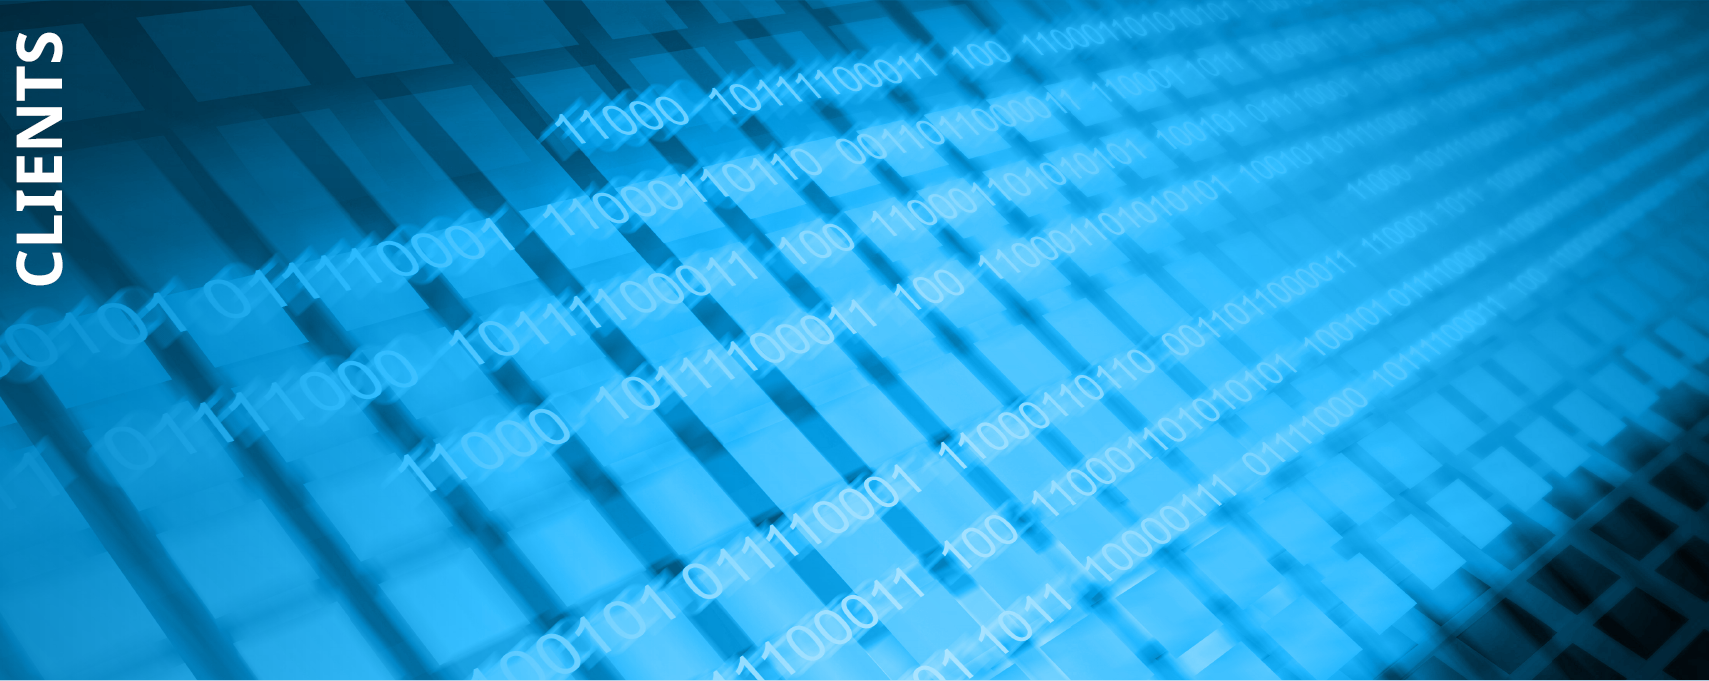
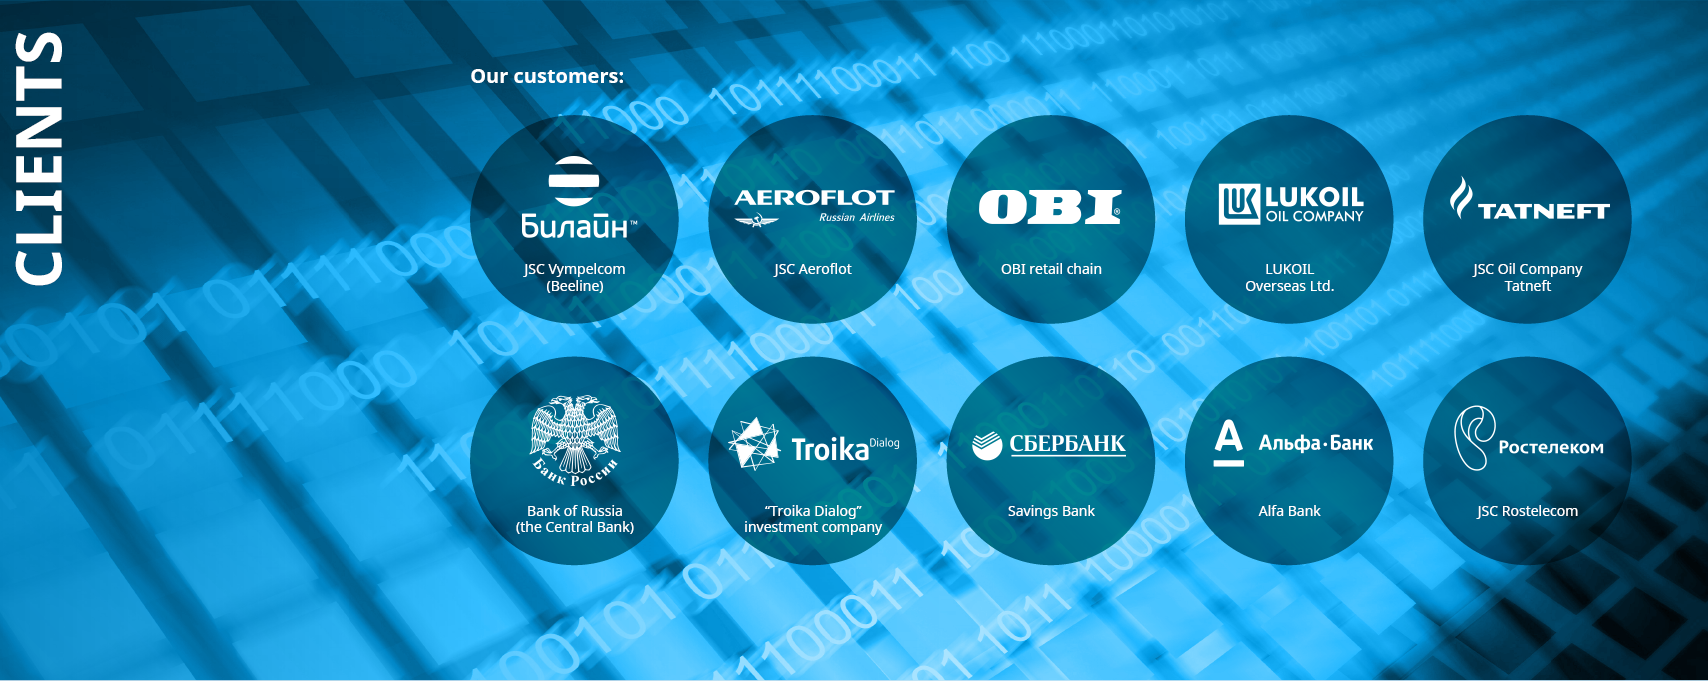
fghjk

Changed region(s): [[0.2482, 0.1542, 0.9619, 0.4934], [0.2482, 0.5242, 0.9619, 0.8326], [0.2793, 0.0925, 0.3724, 0.1233]]

diff --git a/intec/css/main.css b/intec/css/main.css
@@ -1,1 +1,1 @@
-@import "reset.css";body{position:relative;width:100%;height:100%}body header{height:150px;background:#fff;width:100%;top:0;z-index:2;overflow:hidden}body header img{display:inline-block;margin:30px;width:170px;height:70px;vertical-align:top;float:left}body header h1{width:450px;display:inline-block;vertical-align:top;margin:30px 0 0 20px;font-size:16px;font-family:'noto_sans';line-height:18px;float:left}body header section{float:right;display:inline-block;position:absolute;top:20px;right:30px}body header section div{text-align:right;margin-right:5px}body header section div a{display:inline-block;vertical-align:middle;width:25px;height:25px;background:url("../images/sex.png") -50px 0 no-repeat;background-size:77px 25px}body header section div a.fb{background:url("../images/sex.png") 0 0 no-repeat;background-size:77px 25px;margin-left:10px}body header section div a.tw{background:url("../images/sex.png") -25px 0 no-repeat;background-size:77px 25px}body header section div a.link{display:inline-block;color:#8c8c8c;font-size:12px;cursor:pointer;vertical-align:middle;margin-top:2px;text-decoration:underline;font-family:'noto_sans';background:none;height:auto;width:auto}body header section div a.link.current{text-decoration:none}body header section nav{text-align:right;margin-top:10px}body header section nav a{display:inline-block;color:#0075bf;font-size:14px;text-decoration:none;border-bottom:1px dashed #0075bf;margin:0 5px;font-family:'noto_sans';cursor:pointer}body header section nav a.current{border:none;font-weight:bold;cursor:default}body footer{height:50px;background:#383838;width:100%;margin-top:-50px;position:relative;overflow:hidden}body footer img{display:inline-block;float:left;margin:10px 0 0 30px;vertical-align:middle}body footer i{display:inline-block;float:right;color:#fff;margin:20px 40px 0 0;vertical-align:middle;font-family:'noto_sans';font-size:12px}body #content{margin-left:30px;padding-bottom:30px;overflow:hidden;position:relative;z-index:1}body #content ul#mainul{width:100%;position:relative;bottom:0;padding-bottom:50px;min-height:500px}body #content ul#mainul>li{width:5%;float:left;background-size:cover;position:relative;cursor:pointer;-webkit-transition:all 1s ease-in-out;-moz-transition:all 1s ease-in-out;-ms-transition:all 1s ease-in-out;transition:all 1s ease-in-out;overflow:hidden;min-height:500px}body #content ul#mainul>li *{opacity:0;-webkit-transition:all 1s ease-in-out;-moz-transition:all 1s ease-in-out;-ms-transition:all 1s ease-in-out;transition:all 1s ease-in-out}body #content ul#mainul>li a{display:none}body #content ul#mainul>li#project{background:url("../images/1-rus.png") left top no-repeat;background-size:cover}body #content ul#mainul>li#client{background:url("../images/2-rus.png") left top no-repeat;background-size:cover}body #content ul#mainul>li#contact{background:url("../images/3.png") left top no-repeat;background-size:cover}body #content ul#mainul>li.current{width:90%;max-width:100%;background-size:cover !important;cursor:default}body #content ul#mainul>li.current *{opacity:1}body #content ul#mainul>li.current a{display:block}body #content ul#mainul>li .whitenote{width:20%;background:rgba(255,255,255,0.8);font-family:'noto_sans';position:absolute;top:30px;left:10%;padding:5px 10px 10px 10px}body #content ul#mainul>li .whitenote strong{font-size:1.2vw;font-weight:bold;line-height:1.3vw;margin-top:5px;display:block}body #content ul#mainul>li .whitenote p{font-size:1.2vw;line-height:1.3vw}body #content ul#mainul>li .whitenote ul.contul li{font-size:1.2vw;line-height:1.3vw;list-style-type:circle;width:90%;float:none;max-width:90%;cursor:default;margin-left:20px;overflow:visible}body #content ul#mainul>li .whitenote ul.contul.olul li{margin:10px 20px;text-transform:uppercase}body #content ul#mainul>li .whitenote.notecon{top:20px;left:auto;right:5%}body #content ul#mainul>li .whitenote.notecon b,body #content ul#mainul>li .whitenote.notecon strong{margin:10px 0 5px 0;font-size:1.3vw}body #content ul#mainul>li .whitenote.notecon b{color:#017e85;font-size:1.3vw;display:block}body #content ul#mainul>li .whitenote.notecon a{color:#000;display:block;font-size:1.3vw}body #content ul#mainul>li .discs{position:absolute;top:50%;margin:-10% 0 0 40%}body #content ul#mainul>li .discs .disc{display:inline-block;width:28%;max-width:250px;margin:0 2%;opacity:.7}body #content ul#mainul>li .dicks{position:absolute;top:50%;margin:-20% 0 0 40%}body #content ul#mainul>li .dicks .dick{display:block;width:90%;opacity:.7}body #content ul#mainul>li .dicks p{color:#fff;font-family:'noto_sans';font-size:2vh;font-weight:bold;margin:30px 0}body #wrap{position:relative;min-height:100%}body.eng #project{background:url("../images/1.png") left top no-repeat !important;background-size:cover !important}body.eng #client{background:url("../images/2.png") left top no-repeat !important;background-size:cover !important}body.eng #contact{background:url("../images/3-eng.png") left top no-repeat !important;background-size:cover !important}@media screen and (orientation:portrait){header{height:300px !important}header h1{width:600px !important;margin:150px 0 0 -200px !important}#content{top:300px !important}#content p,#content a,#content strong,#content b,#content li{font-size:1.3vw !important;line-height:1.4vw !important}}
+@import "reset.css";body{position:relative;width:100%;height:100%}body header{height:150px;background:#fff;width:100%;top:0;z-index:2;overflow:hidden}body header img{display:inline-block;margin:30px;width:170px;height:70px;vertical-align:top;float:left}body header h1{width:450px;display:inline-block;vertical-align:top;margin:30px 0 0 20px;font-size:16px;font-family:'noto_sans';line-height:18px;float:left}body header section{float:right;display:inline-block;position:absolute;top:20px;right:30px}body header section div{text-align:right;margin-right:5px}body header section div a{display:inline-block;vertical-align:middle;width:25px;height:25px;background:url("../images/sex.png") -50px 0 no-repeat;background-size:77px 25px}body header section div a.fb{background:url("../images/sex.png") 0 0 no-repeat;background-size:77px 25px;margin-left:10px}body header section div a.tw{background:url("../images/sex.png") -25px 0 no-repeat;background-size:77px 25px}body header section div a.link{display:inline-block;color:#8c8c8c;font-size:12px;cursor:pointer;vertical-align:middle;margin-top:2px;text-decoration:underline;font-family:'noto_sans';background:none;height:auto;width:auto}body header section div a.link.current{text-decoration:none}body header section nav{text-align:right;margin-top:10px}body header section nav a{display:inline-block;color:#0075bf;font-size:14px;text-decoration:none;border-bottom:1px dashed #0075bf;margin:0 5px;font-family:'noto_sans';cursor:pointer}body header section nav a.current{border:none;font-weight:bold;cursor:default}body footer{height:50px;background:#383838;width:100%;margin-top:-50px;position:relative;overflow:hidden}body footer img{display:inline-block;float:left;margin:10px 0 0 30px;vertical-align:middle}body footer i{display:inline-block;float:right;color:#fff;margin:20px 40px 0 0;vertical-align:middle;font-family:'noto_sans';font-size:12px}body #content{margin-left:30px;padding-bottom:30px;overflow:hidden;position:relative;z-index:1}body #content ul#mainul{width:100%;position:relative;bottom:0;padding-bottom:50px;min-height:500px}body #content ul#mainul>li{width:5%;float:left;background-size:cover;position:relative;cursor:pointer;-webkit-transition:all 1s ease-in-out;-moz-transition:all 1s ease-in-out;-ms-transition:all 1s ease-in-out;transition:all 1s ease-in-out;overflow:hidden;min-height:500px}body #content ul#mainul>li *{opacity:0;-webkit-transition:all 1s ease-in-out;-moz-transition:all 1s ease-in-out;-ms-transition:all 1s ease-in-out;transition:all 1s ease-in-out}body #content ul#mainul>li a{display:none}body #content ul#mainul>li#project{background:url("../images/1-rus.png") left top no-repeat;background-size:cover}body #content ul#mainul>li#client{background:url("../images/2-rus.png") left top no-repeat;background-size:cover}body #content ul#mainul>li#contact{background:url("../images/3.png") left top no-repeat;background-size:cover}body #content ul#mainul>li.current{width:90%;max-width:100%;background-size:cover !important;cursor:default}body #content ul#mainul>li.current *{opacity:1}body #content ul#mainul>li.current a{display:block}body #content ul#mainul>li .whitenote{width:20%;background:rgba(255,255,255,0.8);font-family:'noto_sans';position:absolute;top:30px;left:7%;padding:5px 10px 10px 10px}body #content ul#mainul>li .whitenote strong{font-size:1.2vw;font-weight:bold;line-height:1.3vw;margin-top:5px;display:block}body #content ul#mainul>li .whitenote p{font-size:1.2vw;line-height:1.3vw}body #content ul#mainul>li .whitenote ul.contul li{font-size:1.2vw;line-height:1.3vw;list-style-type:circle;width:90%;float:none;max-width:90%;cursor:default;margin-left:20px;overflow:visible}body #content ul#mainul>li .whitenote ul.contul.olul li{margin:10px 20px;text-transform:uppercase}body #content ul#mainul>li .whitenote.notecon{top:20px;left:auto;right:5%}body #content ul#mainul>li .whitenote.notecon b,body #content ul#mainul>li .whitenote.notecon strong{margin:10px 0 5px 0;font-size:1.3vw}body #content ul#mainul>li .whitenote.notecon b{color:#017e85;font-size:1.3vw;display:block}body #content ul#mainul>li .whitenote.notecon a{color:#000;display:block;font-size:1.3vw}body #content ul#mainul>li .discs{position:absolute;top:50%;margin:-10% 0 0 40%}body #content ul#mainul>li .discs .disc{display:inline-block;width:28%;max-width:250px;margin:0 2%;opacity:.7}body #content ul#mainul>li .dicks{position:absolute;top:50%;margin:-20% 0 0 40%}body #content ul#mainul>li .dicks .dick{display:block;width:90%;opacity:.7}body #content ul#mainul>li .dicks p{color:#fff;font-family:'noto_sans';font-size:2vh;font-weight:bold;margin:30px 0}body #wrap{position:relative;min-height:100%}body.eng #project{background:url("../images/1.png") left top no-repeat !important;background-size:cover !important}body.eng #client{background:url("../images/2.png") left top no-repeat !important;background-size:cover !important}body.eng #client .whitenote{width:19% !important}body.eng #contact{background:url("../images/3-eng.png") left top no-repeat !important;background-size:cover !important}@media screen and (orientation:portrait){header{height:300px !important}header h1{width:600px !important;margin:150px 0 0 -200px !important}#content{top:300px !important}#content p,#content a,#content strong,#content b,#content li{font-size:1.3vw !important;line-height:1.4vw !important}}

diff --git a/intec/index.html b/intec/index.html
@@ -45,11 +45,13 @@
 								<li>Заказная разработка</li>
 							</ul>
 						</div>
+						<!--
 						<div class="discs">
 							<img class="disc" src="./images/disc1.png">
 							<img class="disc" src="./images/disc2.png">
 							<img class="disc" src="./images/disc3.png">
 						</div>
+						-->
 					</li>
 					<li id="client">
 						<div class="whitenote">
@@ -63,8 +65,10 @@
 							</ul>
 						</div>
 						<div class="dicks">
+							<!-- 
 							<p>Наши клиенты:</p>
 							<img class="dick" src="./images/discs.png">
+							-->
 						</div>
 					</li>
 					<li id="contact">

diff --git a/intec/eng.html b/intec/eng.html
@@ -45,11 +45,13 @@
 								<li>Custom software and solutions</li>
 							</ul>
 						</div>
+						<!--
 						<div class="discs">
 							<img class="disc" src="./images/disc1-eng.png">
 							<img class="disc" src="./images/disc2-eng.png">
 							<img class="disc" src="./images/disc3-eng.png">
 						</div>
+						-->
 					</li>
 					<li id="client">
 						<div class="whitenote">
@@ -63,8 +65,10 @@
 							</ul>
 						</div>
 						<div class="dicks">
+							<!--
 							<p>Our customess:</p>
 							<img class="dick" src="./images/discs-eng.png">
+							-->
 						</div>
 					</li>
 					<li id="contact">

diff --git a/intec/css/main.less b/intec/css/main.less
@@ -184,7 +184,7 @@ body {
 					font-family: 'noto_sans';
 					position: absolute;
 					top: 30px;
-					left: 10%;
+					left: 7%;
 					padding: 5px 10px 10px 10px;
 					strong {
 						font-size: 1.2vw;
@@ -281,6 +281,9 @@ body.eng {
 	#client {
 		background: url("../images/2.png") left top no-repeat !important;
 		background-size: cover !important;
+		.whitenote {
+			width: 19% !important;
+		}
 	}
 	#contact {
 		background: url("../images/3-eng.png") left top no-repeat !important;

diff --git a/intec/js/main.js b/intec/js/main.js
@@ -1,7 +1,7 @@
 $(document).ready(function() {
 
 	function proportion() {
-		$("body #content > ul > li, body #content > ul").css("height", $(window).width()/2.69);
+		$("body #content > ul > li, body #content > ul").css("height", $(window).width()/2.8);
 	}
 
 	$(window).resize(function() {
